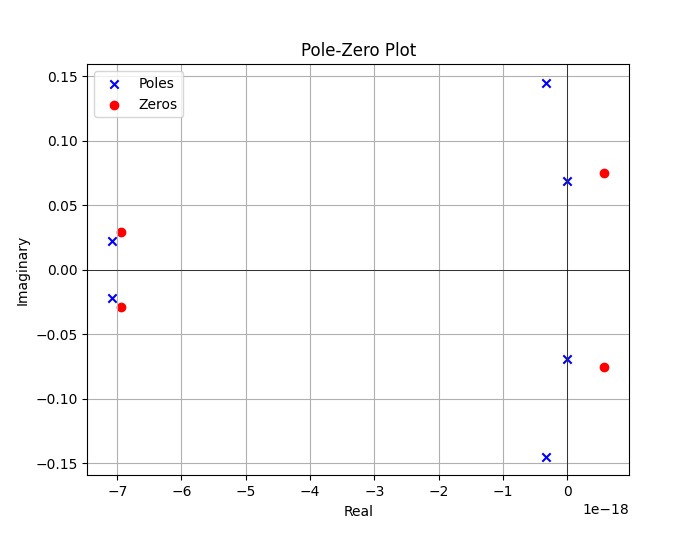
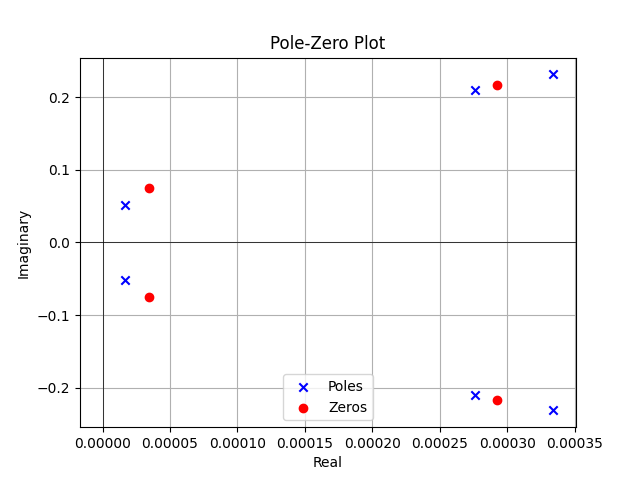
corrected pz plots

diff --git a/Scripts/Pole_Zero_Plots.py b/Scripts/Pole_Zero_Plots.py
@@ -8,7 +8,7 @@ from scipy.signal import ss2tf, tf2zpk
 from End_Effector_Position_Plot import compute_state_space, M_jnp, K_jnp, C_jnp
 
 # Reuse the state-space computation from End_Effector_Position_Plot.py
-A, B, C, D = compute_state_space(M_jnp, K_jnp)
+A, B, C, D = compute_state_space(M_jnp, K_jnp, C_jnp)
 
 # Define functions for controllability and observability
 def check_controllability(A, B):
